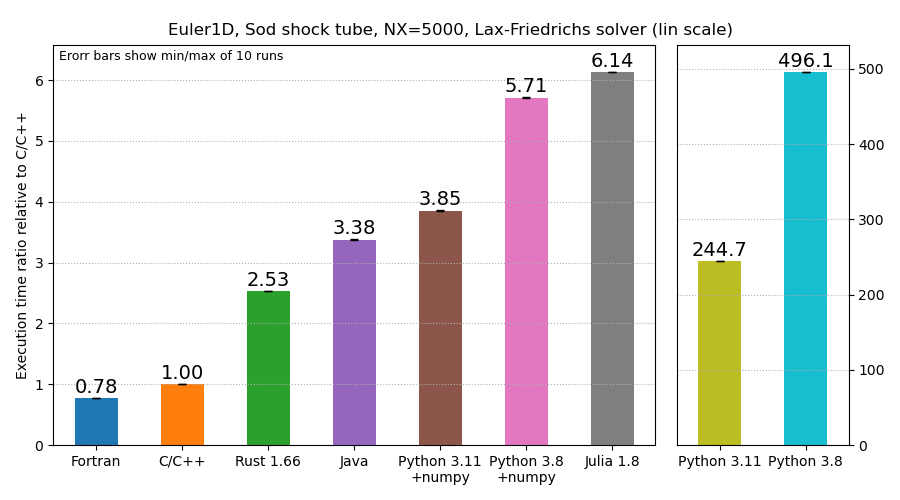
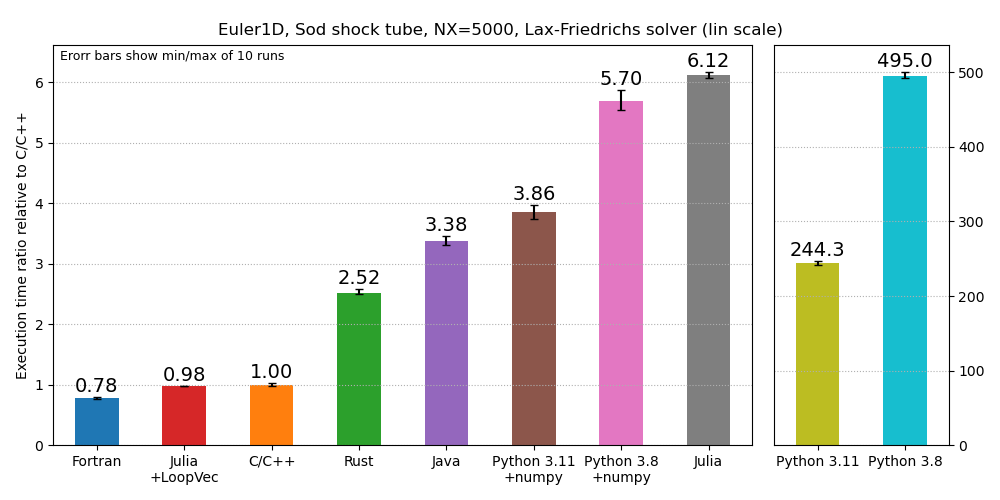
Add Julia+LoopVec benchmark, fix errorbars

Changed region(s): [[0.0, 0.03, 0.9956, 0.99]]

diff --git a/plot_benchmarks.py b/plot_benchmarks.py
@@ -26,14 +26,16 @@ for l in langs:
   mean = sum(data[l])/len(data[l])
   minv = min(data[l])
   maxv = max(data[l])
-  results.append([l, 0, mean, minv, maxv])
+  results.append([l, 0, mean, minv, maxv, 0, 0])
 results.sort(key=lambda x: x[2])
-ref_idx = 1
+ref_idx = [x[0] for x in results].index("C/C++")
 ref_value = results[ref_idx][2]
 for i in range(len(results)):
   results[i][1] = results[i][2] / ref_value
+  results[i][5] = results[i][3] / ref_value
+  results[i][6] = results[i][4] / ref_value
 
-colors = ["C0", "C1", "C2", "C4", "C5", "C6", "C7", "C8", "C9"]
+colors = ["C0", "C3", "C1", "C2", "C4", "C5", "C6", "C7", "C8", "C9"]
 title = "Euler1D, Sod shock tube, NX=5000, Lax-Friedrichs solver"
 
 # ----------------------------
@@ -44,16 +46,17 @@ results2 = [r for r in results if r not in results1]
 len1 = len(results1)
 len2 = len(results2)
 
-fig, axs = plt.subplots(1, 2, figsize=(9,5), gridspec_kw={'width_ratios': [len1, len2]})
+fig, axs = plt.subplots(1, 2, figsize=(10,5), gridspec_kw={'width_ratios': [len1, len2]})
 
 for subnum, _results in enumerate([results1, results2]):
 
   plt.sca(axs[subnum])
 
   xs = range(len(_results))
-  labels, ratios, means, mins, maxs = zip(*_results)
+  labels, ratios, means, minvs, maxvs, minrs, maxrs = zip(*_results)
   labels = [x.replace("+numpy", "\n+numpy") for x in labels]
-  yerrs = np.abs(np.array([mins, maxs]) - means)
+  labels = [x.replace("Julia+", "Julia\n+") for x in labels]
+  yerrs = np.abs(np.array([minrs, maxrs]) - ratios)
   plt.bar(xs, ratios, yerr=yerrs, capsize=3, width=0.5, tick_label=labels, log=False, color=colors[subnum*len1:(subnum+1)*len1])
   for i in xs:
     x = xs[i]
@@ -97,10 +100,10 @@ else:
 plt.figure(figsize=(9,5))
 
 xs = range(len(results))
-labels, ratios, means, mins, maxs = zip(*results)
-print(labels)
+labels, ratios, means, minvs, maxvs, minrs, maxrs = zip(*results)
 labels = [x.replace("+numpy", "\n+numpy") for x in labels]
-yerrs = np.abs(np.array([mins, maxs]) - means)
+labels = [x.replace("Julia+", "Julia\n+") for x in labels]
+yerrs = np.abs(np.array([minrs, maxrs]) - ratios)
 plt.bar(xs, ratios, yerr=yerrs, capsize=3, width=0.5, tick_label=labels, log=False, color=colors[:len(results)])
 for i in xs:
   x = xs[i]
